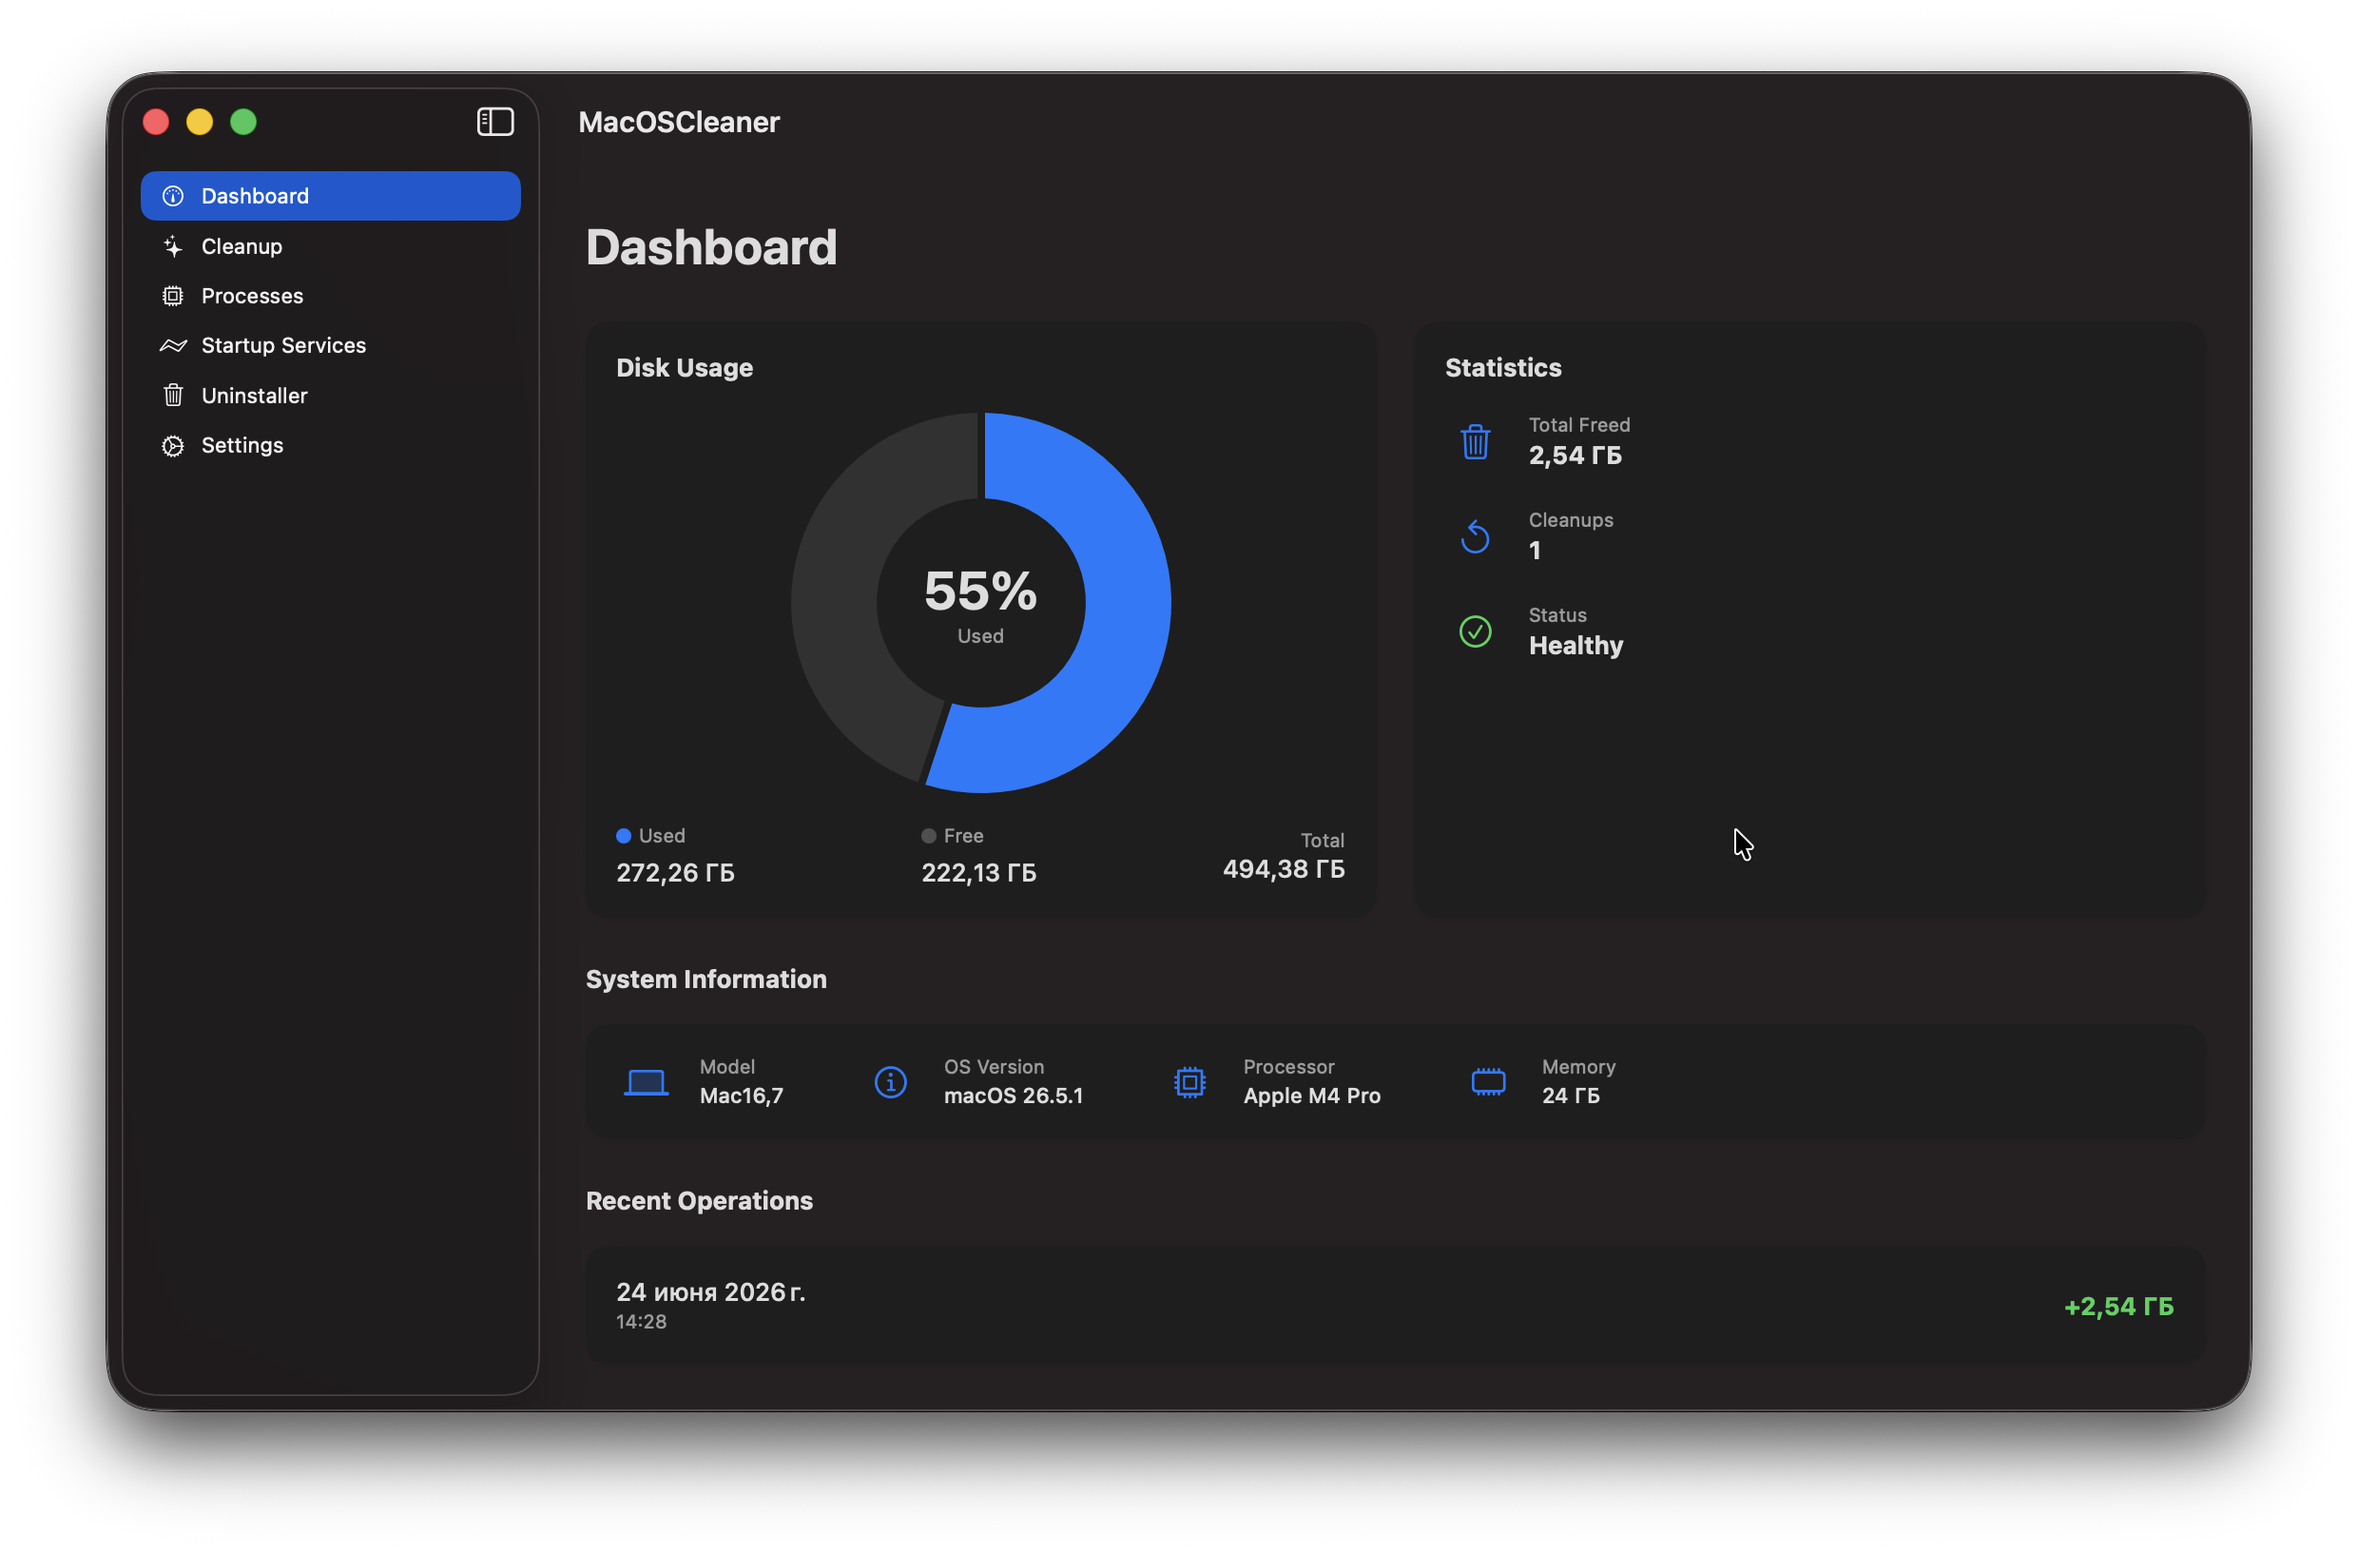
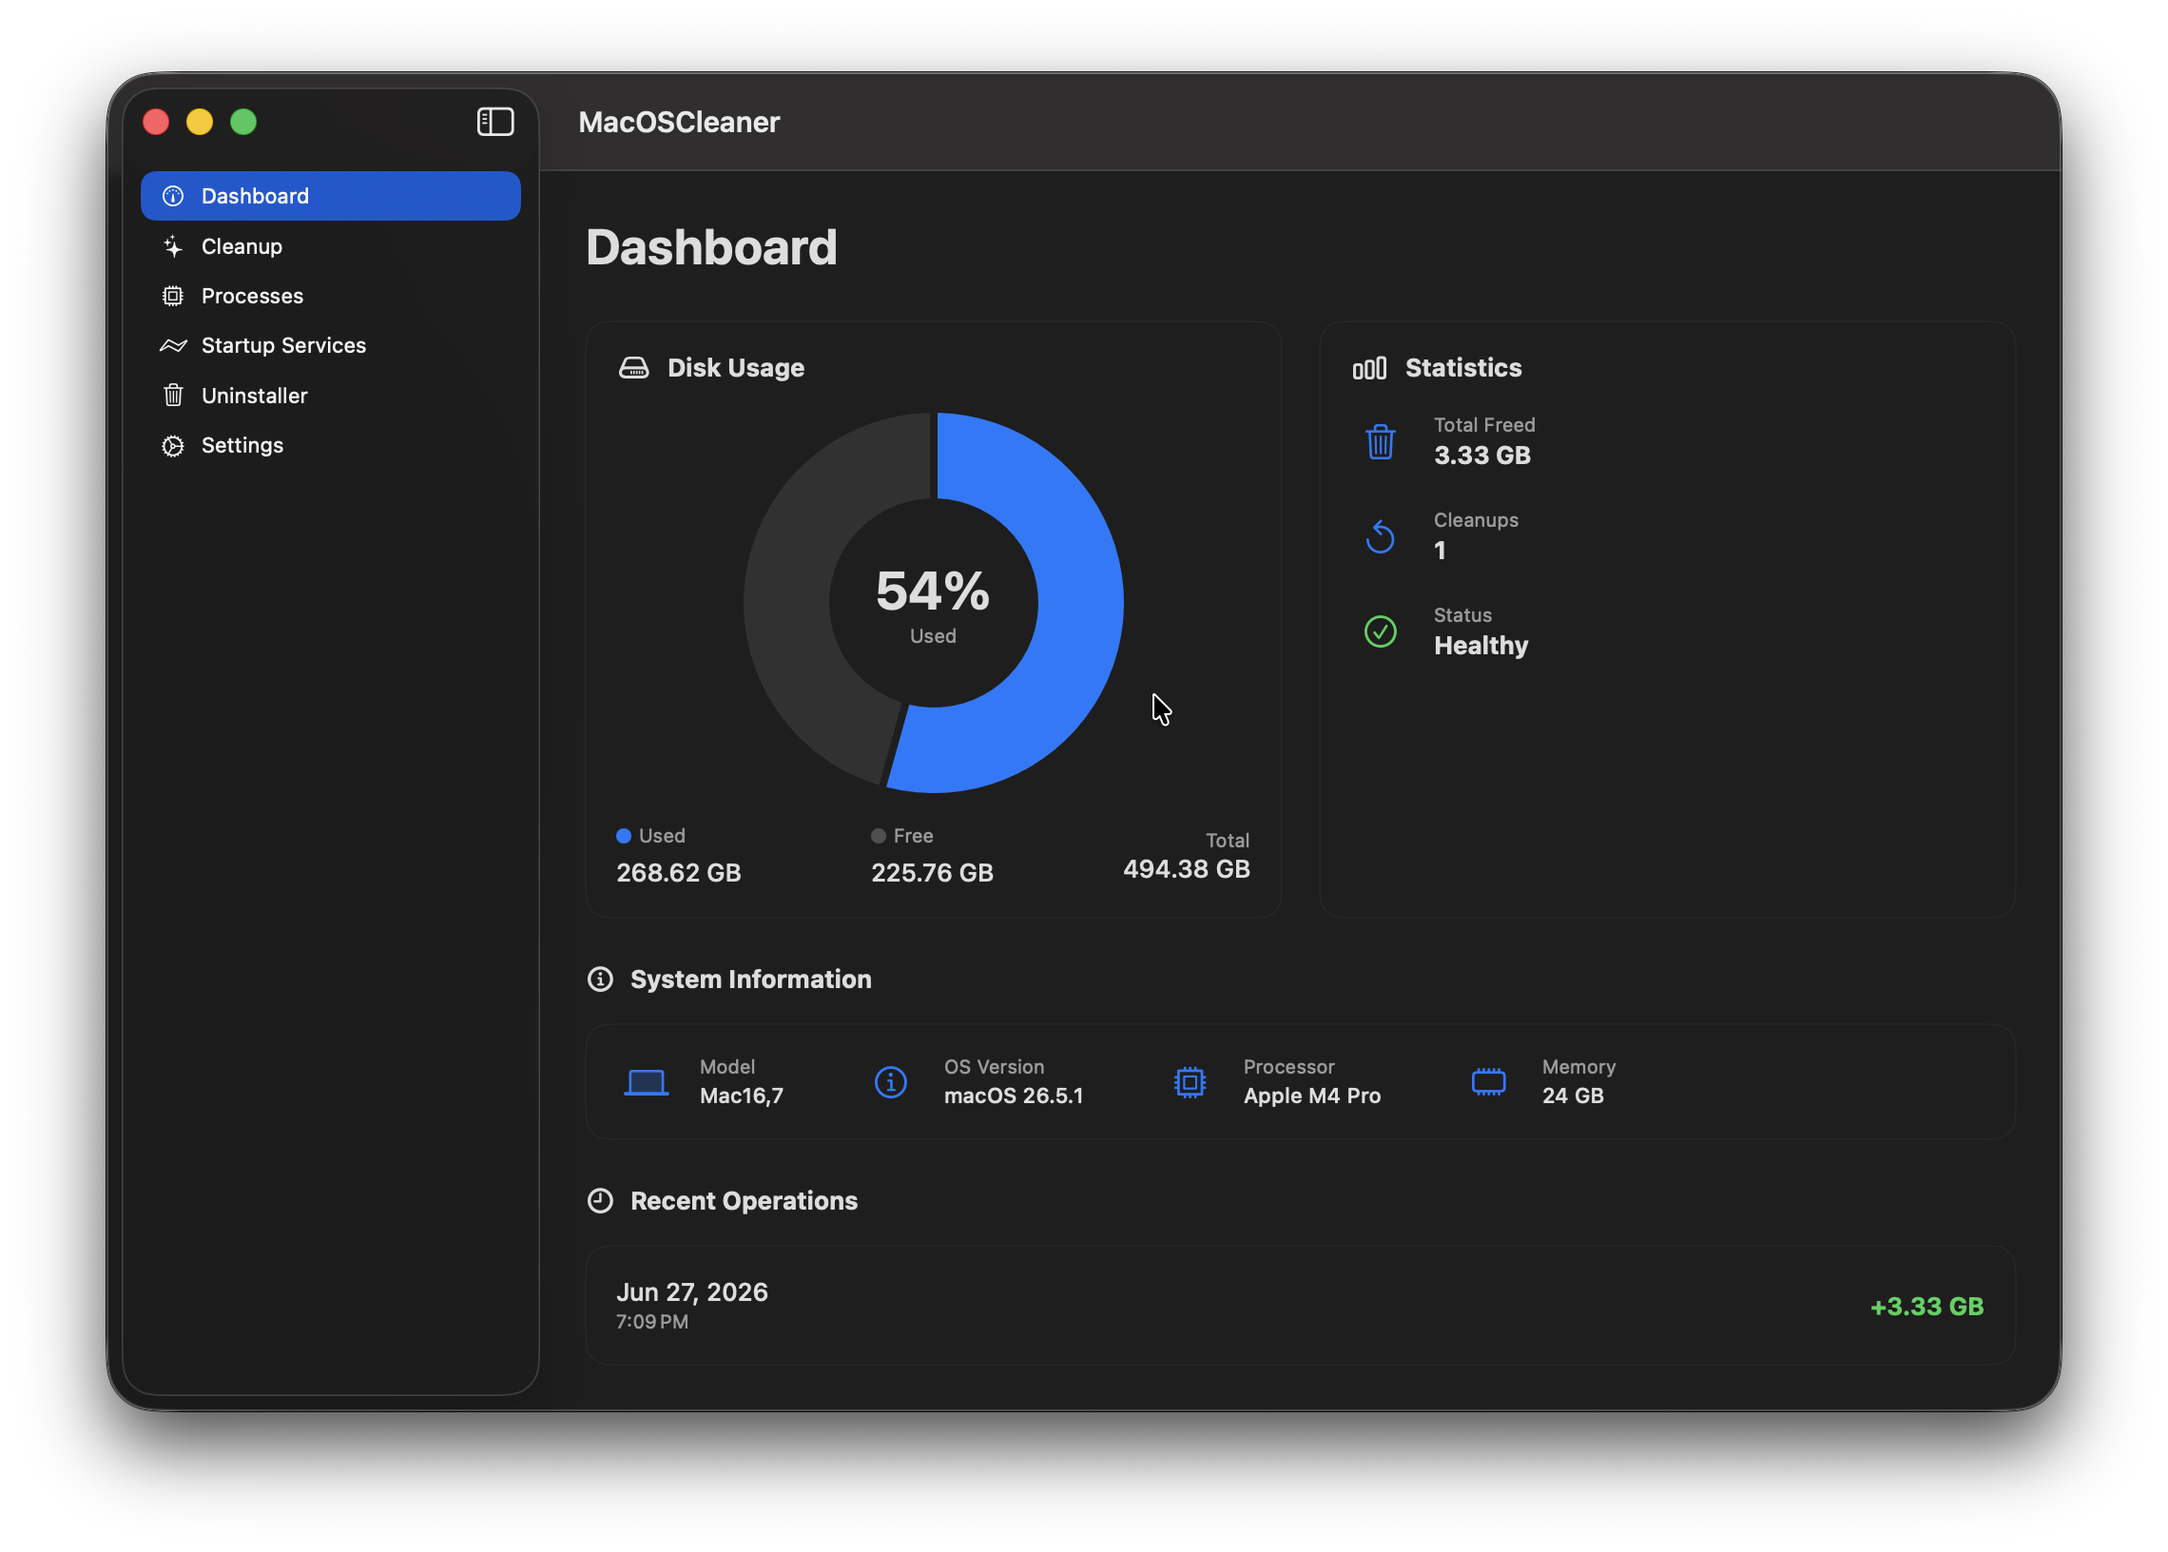
Update screenshots for v1.1

diff --git a/README.md b/README.md
@@ -18,12 +18,19 @@
 ## Screenshots
 
 <p align="center">
-  <img src="assets/screenshots/Dashboard.png" width="45%">
-  <img src="assets/screenshots/Cleanup.png" width="45%">
+  <img src="assets/screenshots/Dashboard.png" width="30%">
+  <img src="assets/screenshots/Cleanup.png" width="30%">
+  <img src="assets/screenshots/Cleanup_Scan.png" width="30%">
 </p>
 <p align="center">
-  <img src="assets/screenshots/Cleanup_Scan_Results.png" width="45%">
-  <img src="assets/screenshots/Uninstaller.png" width="45%">
+  <img src="assets/screenshots/Cleanup_Scan_Results.png" width="30%">
+  <img src="assets/screenshots/Uninstaller.png" width="30%">
+  <img src="assets/screenshots/Uninstaller_scan.png" width="30%">
+</p>
+<p align="center">
+  <img src="assets/screenshots/Processes.png" width="30%">
+  <img src="assets/screenshots/Startup_services.png" width="30%">
+  <img src="assets/screenshots/Settings.png" width="30%">
 </p>
 
 <p align="center">
@@ -34,9 +41,11 @@
 
 ## Features
 
-**Dashboard** 📊 — disk usage chart, system info (model, CPU, RAM, macOS version), cleanup history and stats.
+🌍 **Fully Localized** — English, Русский, Українська, Español. All UI, errors, logs, and system info translated dynamically. Dates and byte counts format automatically for your language.
 
-**Smart Cleanup** 🔍 — scans 54 categories at once:
+**Dashboard** 📊 — redesigned with native macOS aesthetics: `controlBackgroundColor`, rounded cards, and SF Symbols. Disk usage chart, system info (model, CPU, RAM, macOS version), cleanup history and stats.
+
+**Smart Cleanup** 🔍 — scans 54 categories with 298 built-in cleaning paths:
 
 - **App Caches** — Google, Spotify, JetBrains, opencode, browsers (Safari, Chrome, Firefox, Edge, Brave, Vivaldi, Arc), messengers (Telegram, Discord, Slack, Signal, WeChat, Teams)
 - **Package Managers** — Homebrew, npm, yarn, pnpm, CocoaPods
@@ -84,7 +93,7 @@
 - **Duplicate Files** — sha256 duplicate detection in ~/Documents, ~/Desktop, ~/Downloads, ~/Pictures, ~/Movies
 - **Unused Apps** — apps not launched in 180+ days (scan-only)
 
-All categories are always scanned. Dev-related ones show a purple "DEV" badge. Risk badges (Safe / Moderate / Dangerous / Protected) appear after scan — you pick what to delete, then confirm.
+Cleanup tasks run in parallel across all available cores for maximum speed. All categories are always scanned. Dev-related ones show a purple "DEV" badge. Risk badges (Safe / Moderate / Dangerous / Protected) appear after scan — you pick what to delete, then confirm.
 
 **Cleanup Options** — toggles before scan:
 - **Clean .DS_Store files** — removes Finder metadata from directories (off by default)
@@ -94,24 +103,30 @@ All categories are always scanned. Dev-related ones show a purple "DEV" badge. R
 - **Clean iMovie / Final Cut** — includes render files and libraries (off by default)
 - **Clean Sleep Image** — removes hibernation image file (off by default)
 
-**Process Manager** ⚙ — lists running processes, lets you terminate or force-kill them. Critical system processes (kernel_task, launchd, WindowServer) are protected.
+**Process Manager** ⚙ — redesigned with modern macOS styling. Lists running processes, lets you terminate or force-kill them. Critical system processes (kernel_task, launchd, WindowServer) are protected.
 
-**Startup Services** 🚀 — shows all LaunchAgents from `~/Library/LaunchAgents`, their load status, and lets you enable/disable them.
+**Startup Services** 🚀 — redesigned with modern macOS styling. Shows all LaunchAgents from `~/Library/LaunchAgents`, their load status, and lets you enable/disable them.
 
-**App Uninstaller** 🗑 — finds installed apps, scans for residual files (Caches, Preferences, Application Support, Logs), shows total space to reclaim. 30 specialized application rules for precise leftover detection.
+**App Uninstaller** 🗑 — finds installed apps, scans 5 levels deep for residual files using 14 types of evidence (Bundle ID, Team ID, Spotlight, Plist contents, and more). Shows total reclaimable space and real-time scan progress. Tailored rules for over 95 popular apps including Docker, Parallels, Adobe CC, MS Office, Discord, Figma, and more.
 
-**Deep Forensics Engine** 🔬 — when an app is selected for deep scan, the engine:
-- **Identifies** the app via bundle ID, code signing (Team ID, signing authority), receipt presence, and sandbox status
-- **Probes** every candidate file against 30 evidence types across 7 categories: identity, signature, system integration, metadata, content, graph relationships, and Launch Services registration
-- **Builds an evidence graph** — links related files by parent–child relationships for propagation scoring
-- **Confidence tiers** — each file receives a tier: `.guaranteed` (≥100 score with critical evidence), `.veryLikely` (≥60), `.possible` (≥30), or `.ignore` (<30)
-- **30 application rules** — Cloud Storage, Virtualization, Database Tools, Terminal, Communication, Git Clients, Parallels, VMware Fusion, DaVinci Resolve, Logic Pro, Final Cut Pro, Rancher Desktop, Karabiner Elements, Little Snitch, NordVPN, Alfred, Raycast + Electron, Browser, JetBrains, Docker, Xcode, Android Studio, Adobe, Microsoft Office, Steam, Epic Games, Unity, Homebrew, Network Extension
-- **Developer artifacts** — detects Android SDK, Gradle/Maven, Xcode DerivedData, iOS Simulators, Flutter pub-cache, Docker containers, and Homebrew for deep uninstall
-- **Verification** — post-uninstall re-scan confirms cleanup completeness; snapshots stored for rollback
+- **Background Deep Scanning** — apps are scanned thoroughly in the background; the UI updates in real time as each app's total size is finalized
+- **Evidence-Based Forensics** — each candidate file is scored against 14 evidence types: identity, code signing, system integration, metadata, content analysis, graph relationships, and Launch Services registration
+- **Confidence Tiers** — `.guaranteed` (critical evidence), `.veryLikely`, `.possible`, or `.ignore`
+- **Developer Components** — detects and offers to clean Android SDK, Gradle/Maven, Xcode DerivedData, iOS Simulators, Flutter pub-cache, Docker containers, and Homebrew artifacts
+- **Reveal in Finder** — quick action to show any related file or folder in Finder before deleting
+- **Why this file?** — each related file includes an evidence breakdown with localized explanations. Tap any file to see exactly why it was associated with the app
+- **Post-Uninstall Verification** — re-scan confirms cleanup completeness; snapshots stored for rollback
 
-**Why this file?** — each related file includes an evidence breakdown with localized explanations. Tap any file in the detail view to see exactly why it was associated with the app: bundle ID match, parent directory, team ID, Launch Agent reference, etc. Every evidence type has a user-readable title and description in English, Russian, and Ukrainian.
+**Settings** — rebuilt with native macOS `Form` styles to match System Settings. Light/dark/system theme, languages (English, Русский, Українська, Español), notifications, scan-on-startup, Trash behavior, and more.
 
-**Settings** — light/dark/system theme, languages (English, Русский, Українська), notifications, scan-on-startup, Trash behavior, and more.
+---
+
+## 🐛 Bug Fixes in v1.1
+
+- **Full Disk Access (FDA):** Fixed an issue where the FDA guidance window wouldn't appear on startup, and resolved false positives in permission checks by validating restricted directories
+- **OrbStack Safety:** Accidentally deleting OrbStack paths from IDE caches — fixed. VM and Docker infrastructure are now protected
+- **Duplicate Files:** Fixed inflated disk usage numbers in the duplicate files scanner
+- **Xcode Previews:** Resolved a compilation issue preventing Xcode Canvas previews from rendering in Debug mode
 
 ---
 
@@ -162,7 +177,7 @@ MacOSCleaner/
 │  └ About/               # AboutView
 ├ Infrastructure/         # CommandRunner, SafetyManager, TrashManager, LanguageManager, PosixScanner, actors
 ├ Models/                 # CleanupItem, OperationRisk, RunningProcess, StartupService, etc.
-└ Resources/              # Localizable.strings (en/ru/uk), assets
+└ Resources/              # Localizable.strings (en/ru/uk/es), assets
 ```
 
 ---
